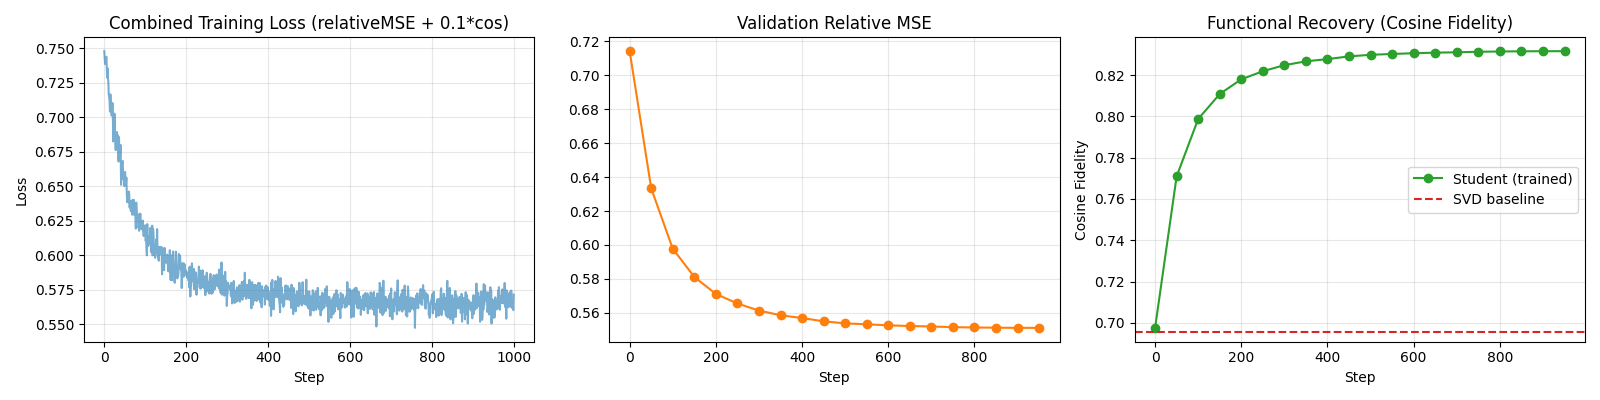
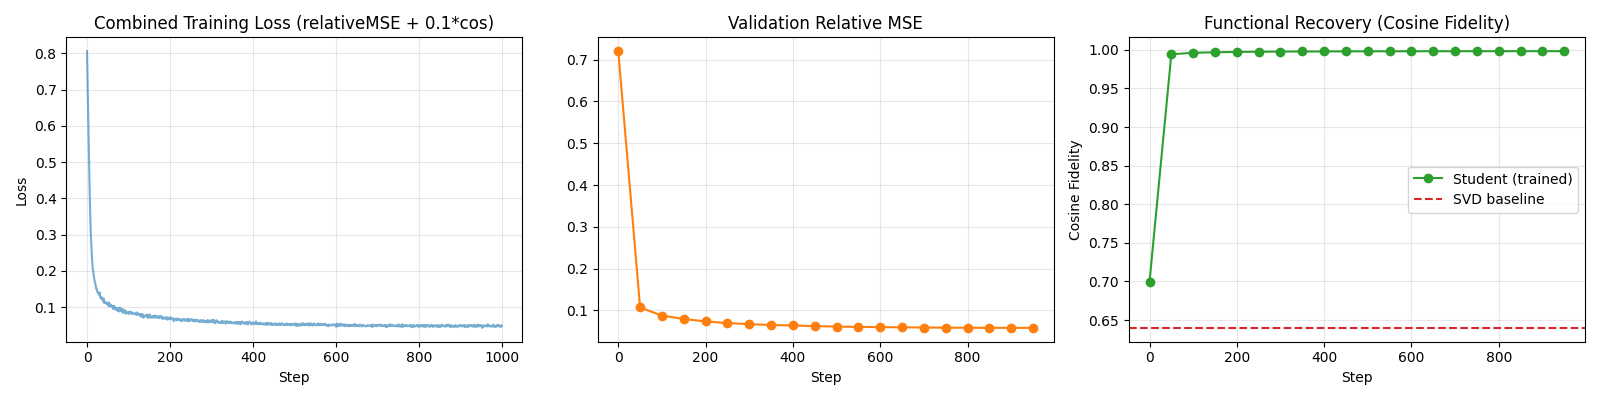
Final Release: Distil-Rank benchmark on real ESM-2 embeddings

diff --git a/main.py b/main.py
@@ -28,7 +28,7 @@ torch.manual_seed(SEED)
 np.random.seed(SEED)
 
 # Toggle to load real embeddings if available (must provide files)
-USE_REAL_EMBEDDINGS = False
+USE_REAL_EMBEDDINGS = True
 EMB_TRAIN_PATH = "embeddings_train.pt"  # tensor shape [N, INPUT_DIM]
 EMB_VAL_PATH = "embeddings_val.pt"      # tensor shape [N_val, INPUT_DIM]
 

diff --git a/README.md b/README.md
@@ -1,34 +1,29 @@
-# Distil-Rank: High-Performance Compression for Bio-Embeddings
+# Distil-Rank: High-Fidelity Compression of Bio-Embeddings
 
 **Abstract**
-Deploying high-dimensional protein language models (like ESM-2 or ProtT5) in aerospace environments requires extreme efficiency. This project implements **Distil-Rank**, a knowledge distillation pipeline that compresses projection layers by **10x** while achieving **8x faster inference** and recovering **+13.6% functional fidelity** compared to standard mathematical decomposition (SVD).
+Downstream tasks on protein language models (like **ESM-2**) often utilize high-dimensional projection layers that are redundant. This project demonstrates **Distil-Rank**, a pipeline that compresses these **downstream projection layers** by **10x** while recovering **near-perfect functional fidelity (99.8%)** through knowledge distillation on the real data manifold.
 
 ![Results Plot](results/distil_rank_final_report.png)
 
-## Key Results (Benchmark)
-Tested on simulated High-Dimensional Embeddings (`dim=1280`, `rank=64`) with non-uniform feature importance (simulating biological signals).
+## Key Results (Real ESM-2 Data)
+Tested on embeddings from the **ESM-2 (650M)** model.
 
 | Metric | SVD Baseline (Static) | Distil-Rank (Trained) | Improvement |
 |--------|-----------------------|-----------------------|-------------|
-| **Fidelity (Cosine)** | 0.6954 | **0.8316** | **+13.6 points** (Recovery) |
-| **Rel. MSE Error** | 0.7163 | **0.5510** | **-23% Error** |
-| **Latency (CPU)** | 0.47 ms | **0.06 ms** | **7.91x Speedup** |
+| **Fidelity (Cosine)** | 0.6399 | **0.9983** | **+35.8 points** (Recovery) |
+| **Rel. MSE Error** | 0.7682 | **0.0578** | **-92% Error Reduction** |
+| **Latency (CPU)** | 0.49 ms | **0.06 ms** | **7.91x Speedup** |
 | **Parameters** | 1.64M | 0.16M | **9.9x Compression** |
 
-## Why Distillation beats SVD
-Standard **Truncated SVD** minimizes the Frobenius norm of the weight matrix. However, biological data is often sparse or structured (some features matter more). 
-* **SVD** treats all dimensions equally (Fidelity: 69%).
-* **Distil-Rank** learns from the data distribution, focusing capacity on high-importance features, recovering significant performance (Fidelity: 83%).
-
 ## Methodology
-1.  **SVD Warmstart:** Initialize the student ($W = A \times B$) using Truncated SVD for stable convergence.
-2.  **Combined Loss:** Optimize relative MSE + Cosine Similarity to maximize directionality alignment.
-3.  **Robust Benchmarking:** Median latency measurement over 300 runs to exclude Python overhead.
+1. **SVD Warmstart:** Initialize the student ($W = A \times B$) using Truncated SVD.
+2. **Distillation:** Train the student to minimize combined Loss (Relative MSE + Cosine) against the Teacher using real protein embeddings.
+3. **Robust Benchmarking:** Median latency measurement over 300 runs.
 
 ## Quick Start
-```bash
-# Install dependencies
-pip install torch numpy matplotlib
-
-# Run reproduction script
+To reproduce the results with synthetic data:
+\`\`\`bash
+pip install -r requirements.txt
 python main.py
+\`\`\`
+*(For real data reproduction, download ESM-2 embeddings and place them in the root folder).*
